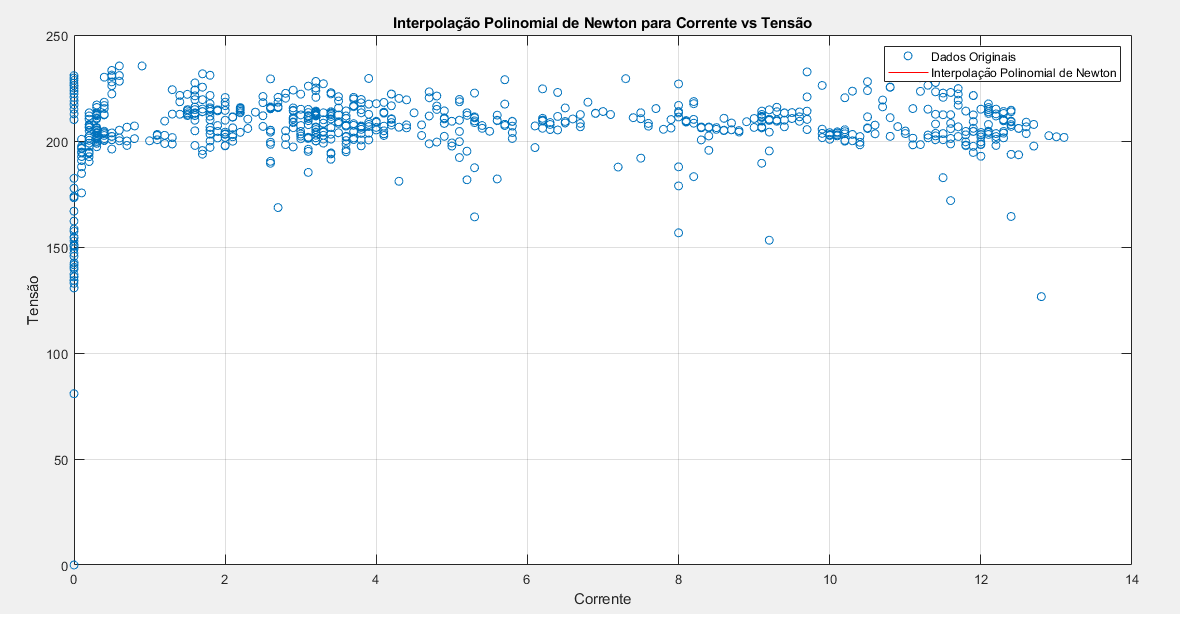
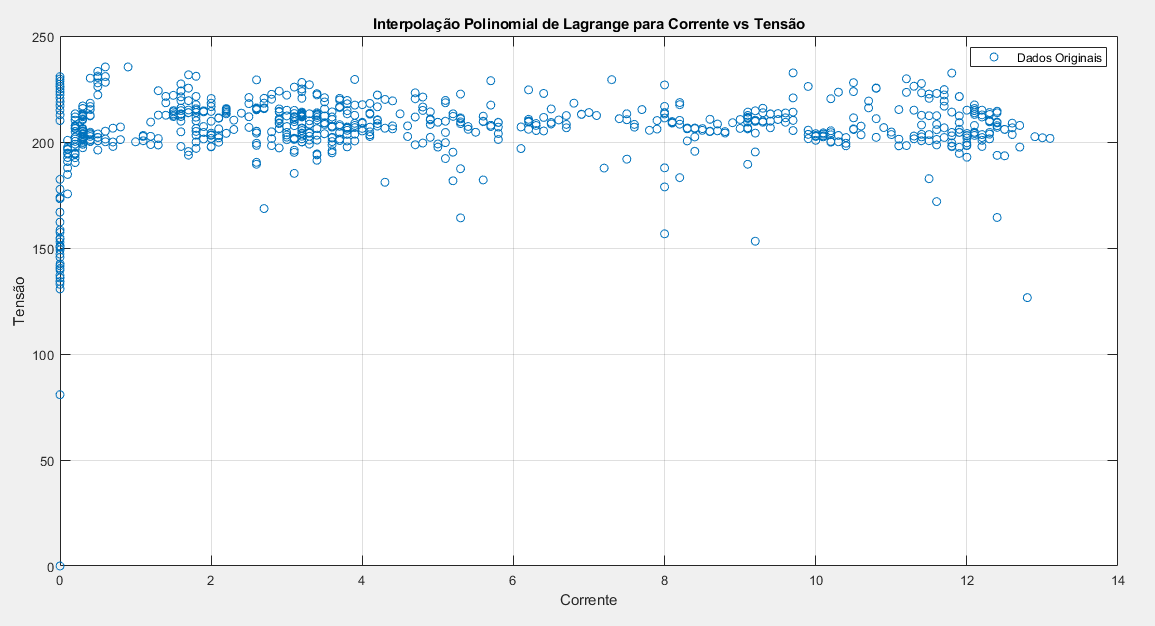
arrumando graficos

diff --git a/Unidade02/Avaliação02_1/Corrente_x_tensao/tensao_x_corrente_interpolacao.m b/Unidade02/Avaliação02_1/Corrente_x_tensao/tensao_x_corrente_interpolacao.m
@@ -1,5 +1,5 @@
 % Leia o arquivo Excel
-file_path = 'C:\Users\tassi\OneDrive\Área de Trabalho\Documentos\MATLAB\Metodos_computacionais\Unidade02\Avaliação02_1\corrente_x_tensao.xlsx';
+file_path = 'C:\Users\tassi\OneDrive\Área de Trabalho\Documentos\Metodos_computacionais\Unidade02\Avaliação02_1\corrente_x_tensao.xlsx';
 data = readtable(file_path, 'Range', 'A3:B1000', 'VariableNamingRule', 'preserve'); % Ajuste o range conforme necessário
 
 % Extraia a tensão e a corrente
@@ -28,9 +28,8 @@ y_vals = lagrange_interp(x_vals);
 figure;
 plot(voltage, current, 'o', 'DisplayName', 'Dados Originais');
 hold on;
-plot(x_vals, y_vals, 'r-', 'LineWidth', 2, 'DisplayName', 'Interpolação Polinomial de Lagrange');
-xlabel('Tensão');
-ylabel('Corrente');
+ylabel('Tensão');
+xlabel('Corrente');
 title('Interpolação Polinomial de Lagrange para Corrente vs Tensão');
 legend('show');
 grid on;

diff --git a/Unidade02/Avaliação02_1/Corrente_x_tensao/corrente_x_tensao_regressao.m b/Unidade02/Avaliação02_1/Corrente_x_tensao/corrente_x_tensao_regressao.m
@@ -114,8 +114,8 @@ figure;
 plot(x, y, 'ko', 'MarkerFaceColor', 'k', 'DisplayName', 'Dados originais');
 hold on;
 plot(x, y_fit, 'r-', 'LineWidth', 2, 'DisplayName', sprintf('Polinômio de ordem %d (R2 = %.4f)', g, R2));
-xlabel('Tensão (normalizada)');
-ylabel('Corrente');
+ylabel('Tensão ');
+xlabel('Corrente (normalizada)');
 title('Ajuste Polinomial dos Dados');
 legend('show');
 grid on;
